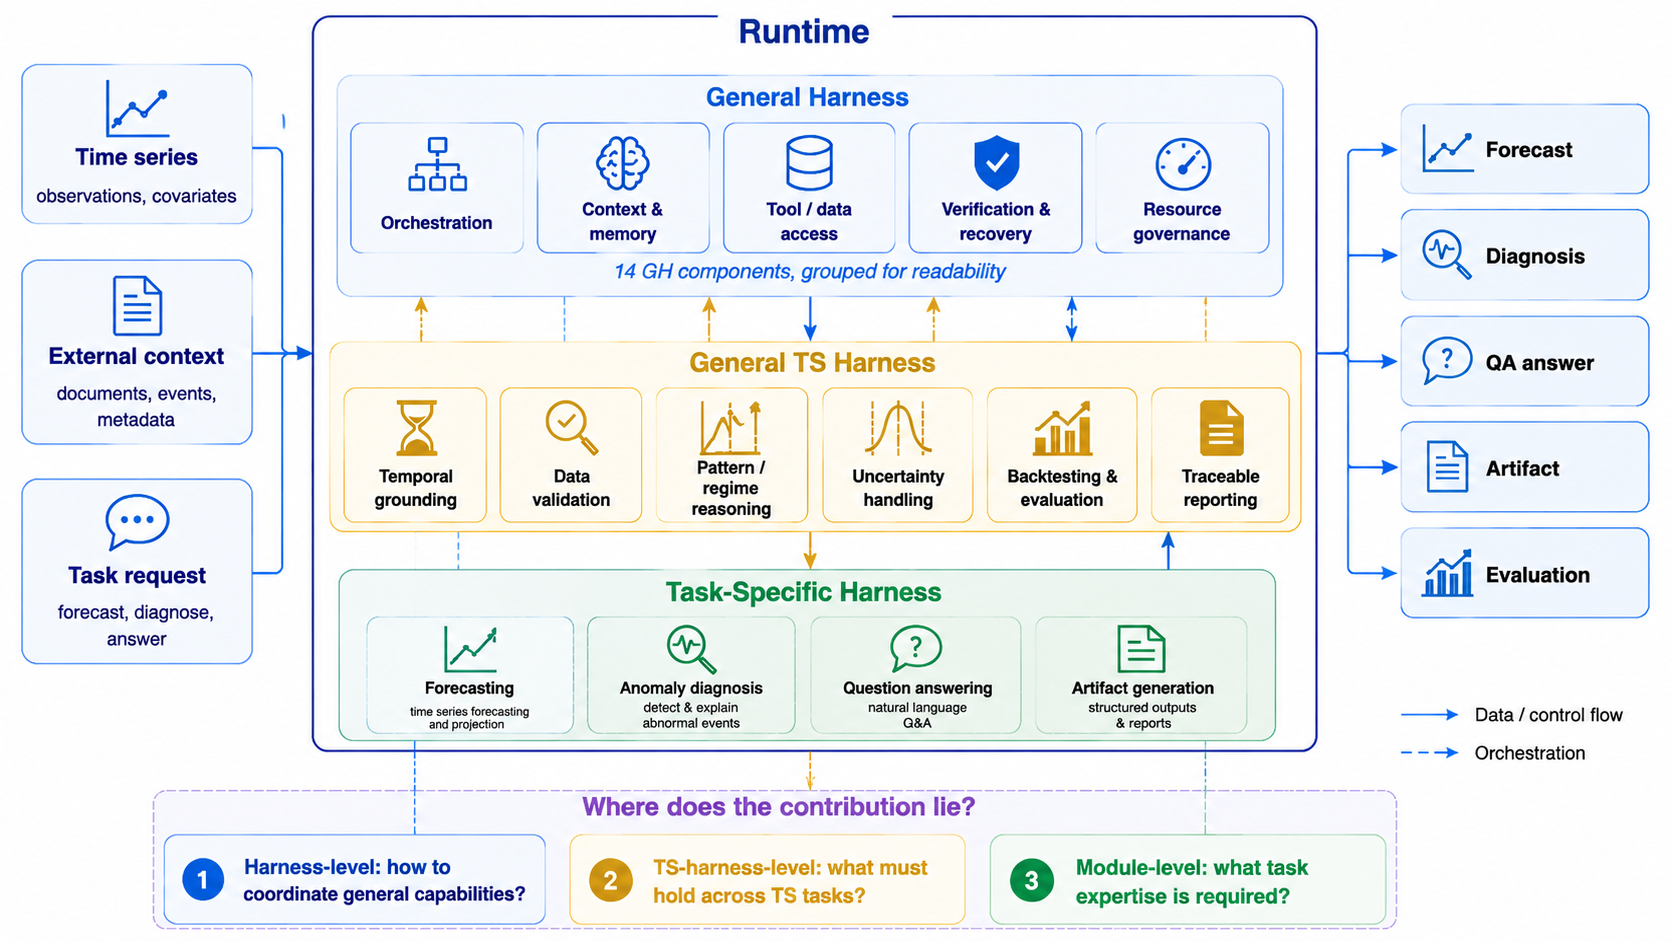
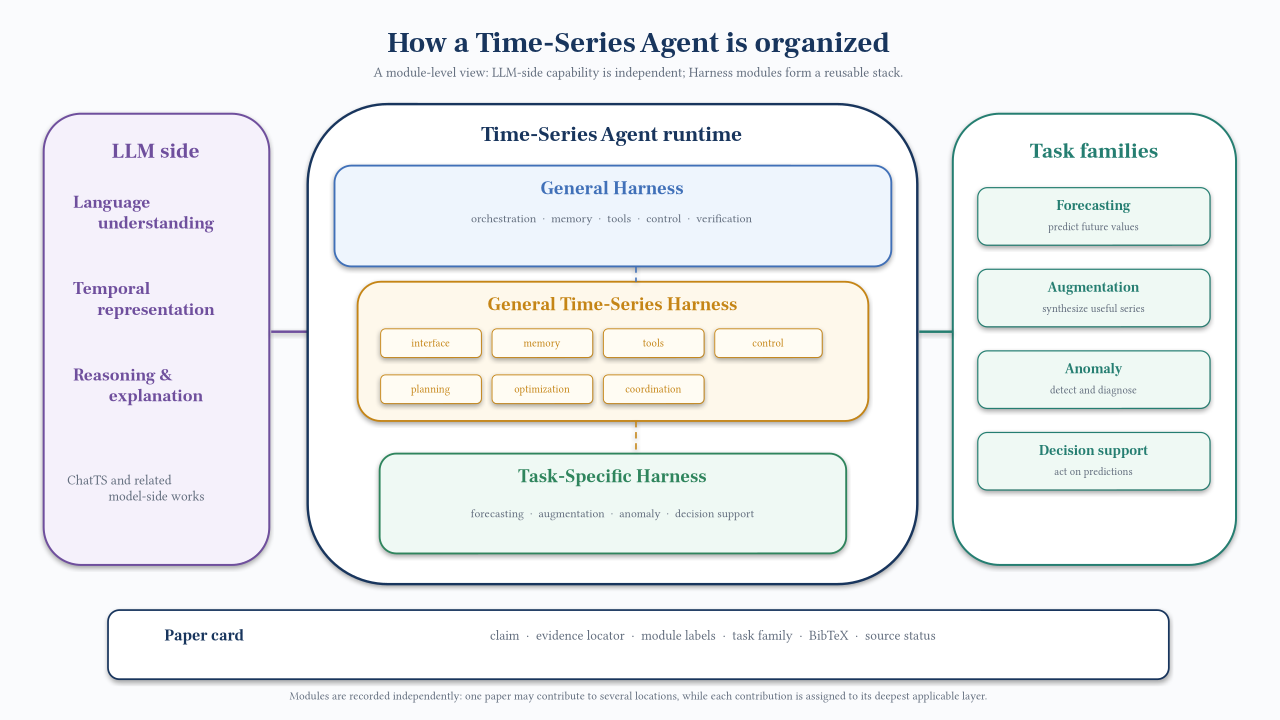
redraw survey overview figure in RSI style

Changed region(s): [[0.0, 0.0, 1.0, 1.0], [0.125, 0.0611, 0.1562, 0.0917], [0.0625, 0.8556, 0.0938, 0.8861]]

diff --git a/artifacts/build_overview_figure.py b/artifacts/build_overview_figure.py
@@ -1,0 +1,39 @@
+from pptx import Presentation
+from pptx.util import Inches, Pt
+from pptx.enum.shapes import MSO_SHAPE, MSO_CONNECTOR
+from pptx.enum.text import PP_ALIGN, MSO_ANCHOR
+from pptx.dml.color import RGBColor
+from pptx.enum.dml import MSO_LINE_DASH_STYLE
+OUT='/Users/mjm/Papers/Qingsong/IJCAI2027-Time-Series-Agents-Survey/artifacts/Figure2_RSI_style.pptx'
+prs=Presentation(); prs.slide_width=Inches(13.333); prs.slide_height=Inches(7.5)
+slide=prs.slides.add_slide(prs.slide_layouts[6])
+NAVY=RGBColor(24,53,93); BLUE=RGBColor(64,112,184); PURPLE=RGBColor(111,79,157); AMBER=RGBColor(197,133,22); TEAL=RGBColor(37,126,113); GREEN=RGBColor(47,133,93); INK=RGBColor(37,45,58); MUTED=RGBColor(98,109,125); BG=RGBColor(250,251,253); PALE_BLUE=RGBColor(238,245,253); PALE_PURPLE=RGBColor(245,241,251); PALE_AMBER=RGBColor(254,248,235); PALE_GREEN=RGBColor(239,249,244)
+def box(x,y,w,h,fill,line,r=MSO_SHAPE.ROUNDED_RECTANGLE,lw=1.2):
+ s=slide.shapes.add_shape(r, Inches(x), Inches(y), Inches(w), Inches(h)); s.fill.solid(); s.fill.fore_color.rgb=fill; s.line.color.rgb=line; s.line.width=Pt(lw); return s
+def text(x,y,w,h,txt,size=12,color=INK,bold=False,align=PP_ALIGN.LEFT,font='Aptos',margin=.06):
+ tb=slide.shapes.add_textbox(Inches(x),Inches(y),Inches(w),Inches(h)); tf=tb.text_frame; tf.clear(); tf.word_wrap=True; tf.margin_left=tf.margin_right=Inches(margin); tf.margin_top=tf.margin_bottom=Inches(margin); tf.vertical_anchor=MSO_ANCHOR.MIDDLE; p=tf.paragraphs[0]; p.alignment=align; run=p.add_run(); run.text=txt; run.font.name=font; run.font.size=Pt(size); run.font.bold=bold; run.font.color.rgb=color; return tb
+def line(x1,y1,x2,y2,color=BLUE,lw=1.4,dash=None,arrow=False):
+ c=slide.shapes.add_connector(MSO_CONNECTOR.STRAIGHT, Inches(x1), Inches(y1), Inches(x2), Inches(y2)); c.line.color.rgb=color; c.line.width=Pt(lw); 
+ if dash: c.line.dash_style=dash
+ if arrow: c.line.end_arrowhead=True
+ return c
+bg=slide.background; bg.fill.solid(); bg.fill.fore_color.rgb=BG
+text(.45,.25,12.4,.34,'How a Time-Series Agent is organized',22,NAVY,True,PP_ALIGN.CENTER)
+text(.45,.62,12.4,.25,'A module-level view: LLM-side capability is independent; Harness modules form a reusable stack.',10,MUTED,False,PP_ALIGN.CENTER)
+box(.45,1.18,2.35,4.7,PALE_PURPLE,PURPLE,lw=1.5); text(.63,1.38,1.98,.35,'LLM side',16,PURPLE,True,PP_ALIGN.CENTER)
+text(.7,1.85,1.85,.7,'Language\nunderstanding',13,PURPLE,True,PP_ALIGN.CENTER); text(.7,2.75,1.85,.7,'Temporal\nrepresentation',13,PURPLE,True,PP_ALIGN.CENTER); text(.7,3.65,1.85,.7,'Reasoning &\nexplanation',13,PURPLE,True,PP_ALIGN.CENTER); text(.64,4.75,1.98,.65,'ChatTS and related\nmodel-side works',10,MUTED,False,PP_ALIGN.CENTER); line(2.82,3.45,3.22,3.45,PURPLE,1.8,arrow=True)
+box(3.2,1.08,6.35,5.0,RGBColor(255,255,255),NAVY,lw=1.8); text(3.42,1.22,5.9,.32,'Time-Series Agent runtime',16,NAVY,True,PP_ALIGN.CENTER)
+box(3.48,1.72,5.8,1.05,PALE_BLUE,BLUE,lw=1.4); text(3.7,1.82,5.35,.25,'General Harness',14,BLUE,True,PP_ALIGN.CENTER); text(3.72,2.14,5.3,.25,'orchestration  ·  memory  ·  tools  ·  control  ·  verification',9,MUTED,False,PP_ALIGN.CENTER)
+box(3.72,2.93,5.32,1.45,PALE_AMBER,AMBER,lw=1.4); text(3.95,3.03,4.86,.25,'General Time-Series Harness',14,AMBER,True,PP_ALIGN.CENTER)
+chips=['interface','memory','tools','control','planning','optimization','coordination']
+for i,ch in enumerate(chips):
+ col=i%4; row=i//4; x=3.96+col*1.16; y=3.42+row*.48; w=1.05 if col<3 or row==1 else 1.12; box(x,y,w,.30,RGBColor(255,252,243),AMBER,lw=.7); text(x+.02,y+.01,w-.04,.27,ch,8,AMBER,False,PP_ALIGN.CENTER)
+box(3.95,4.72,4.86,1.04,PALE_GREEN,GREEN,lw=1.4); text(4.15,4.82,4.46,.25,'Task-Specific Harness',14,GREEN,True,PP_ALIGN.CENTER); text(4.12,5.17,4.52,.34,'forecasting  ·  augmentation  ·  anomaly  ·  decision support',8.7,MUTED,False,PP_ALIGN.CENTER)
+box(9.92,1.18,2.95,4.7,RGBColor(255,255,255),TEAL,lw=1.5); text(10.12,1.38,2.55,.35,'Task families',16,TEAL,True,PP_ALIGN.CENTER)
+for i,(lab,sub) in enumerate([('Forecasting','predict future values'),('Augmentation','synthesize useful series'),('Anomaly','detect and diagnose'),('Decision support','act on predictions')]):
+ y=1.95+i*.85; box(10.18,y,2.42,.60,PALE_GREEN,TEAL,lw=.9); text(10.28,y+.07,2.22,.22,lab,10.5,TEAL,True,PP_ALIGN.CENTER); text(10.28,y+.32,2.22,.17,sub,8,MUTED,False,PP_ALIGN.CENTER)
+line(9.57,3.45,9.92,3.45,TEAL,1.8,arrow=True)
+box(1.12,6.35,11.05,.72,RGBColor(255,255,255),NAVY,lw=1.3); text(1.35,6.48,1.55,.25,'Paper card',12,NAVY,True,PP_ALIGN.CENTER); text(2.95,6.46,8.95,.30,'claim  ·  evidence locator  ·  module labels  ·  task family  ·  BibTeX  ·  source status',10,MUTED,False,PP_ALIGN.CENTER)
+line(6.62,2.77,6.62,2.93,BLUE,1.2,MSO_LINE_DASH_STYLE.DASH); line(6.62,4.38,6.62,4.72,AMBER,1.2,MSO_LINE_DASH_STYLE.DASH)
+text(.5,7.15,12.3,.18,'Modules are recorded independently: one paper may contribute to several locations, while each contribution is assigned to its deepest applicable layer.',8.5,MUTED,False,PP_ALIGN.CENTER)
+prs.save(OUT)
